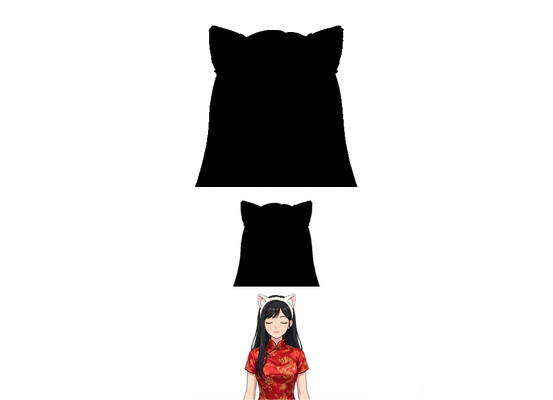
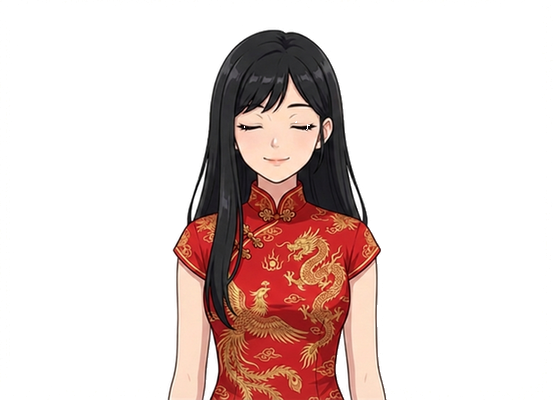
feat: outfit trigger via chat text + IPC load + red-qipao preset

Changed region(s): [[0.2767, 0.06, 0.7071, 1.0]]

diff --git a/src/main/ipc-handlers.ts b/src/main/ipc-handlers.ts
@@ -211,4 +211,30 @@ export function registerIpcHandlers(deps: {
     setLoginItem(enabled);
     return { success: true };
   });
+
+  // ===== Outfit Loading =====
+  ipcMain.handle('outfit:load', async (_event, name: string) => {
+    try {
+      const { getOutfit, setCurrentOutfit } = await import('./wardrobe');
+      const sprites = getOutfit(name);
+      if (!sprites) {
+        console.warn(`[IPC] Outfit not found: ${name}`);
+        return { success: false, error: 'Outfit not found' };
+      }
+      setCurrentOutfit(name);
+      // Send to renderer
+      const win = BrowserWindow.getAllWindows()[0];
+      if (win) {
+        win.webContents.send('outfit:change', {
+          status: 'ready',
+          outfit: name,
+          sprites,
+        });
+      }
+      return { success: true };
+    } catch (e: any) {
+      console.error('[IPC] Outfit load error:', e);
+      return { success: false, error: e.message };
+    }
+  });
 }

diff --git a/src/renderer/app.js b/src/renderer/app.js
@@ -311,8 +311,19 @@ async function handleCommand(command) {
 
   try {
     const result = await window.electronAPI.chat(command);
-    const reply = cleanMarkdown(result.message || '');
+    let reply = cleanMarkdown(result.message || '');
     lastAIResponse = reply;
+
+    // Check for outfit change trigger: __OUTFIT:outfit-name__
+    const outfitMatch = reply.match(/__OUTFIT:([a-zA-Z0-9_-]+)__/);
+    if (outfitMatch) {
+      const outfitName = outfitMatch[1];
+      reply = reply.replace(/__OUTFIT:[a-zA-Z0-9_-]+__/g, '').trim();
+      lastAIResponse = reply;
+      console.log('[App] Outfit trigger detected:', outfitName);
+      // Request outfit load from main process
+      window.electronAPI?.loadOutfit?.(outfitName);
+    }
 
     // Bounce character on new response
     if (glassOrbCharacter) glassOrbCharacter.bounce();

diff --git a/src/preload/preload.ts b/src/preload/preload.ts
@@ -69,6 +69,7 @@ contextBridge.exposeInMainWorld('electronAPI', {
     error?: string;
   }) => void) =>
     ipcRenderer.on('outfit:change', (_e, data) => cb(data)),
+  loadOutfit: (name: string) => ipcRenderer.invoke('outfit:load', name),
 
   // ===== Global Hotkeys =====
   onToggleMini: (cb: () => void) =>
